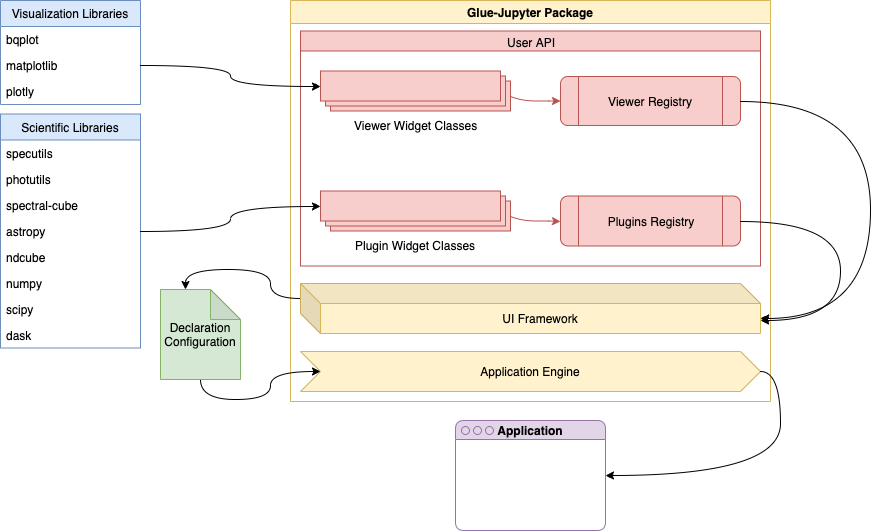
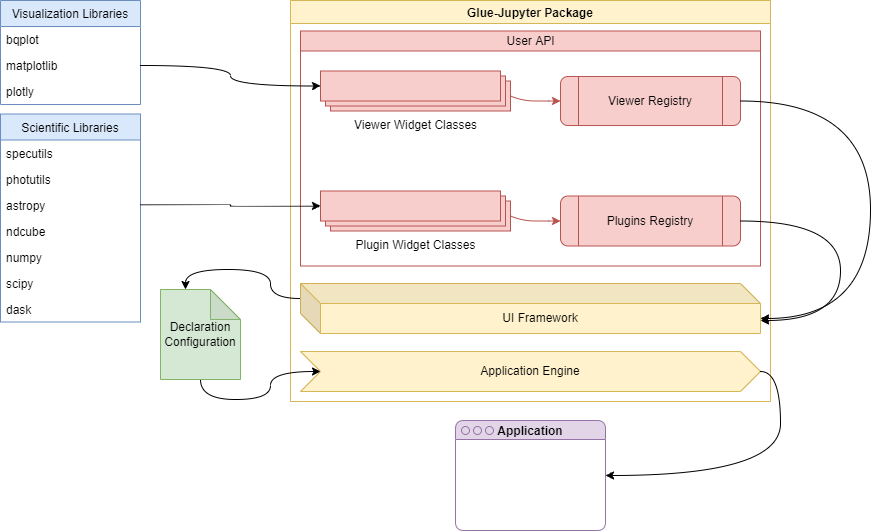
WIP: Remove dep on spectral-cube and parse ASDF/GWCS for JWST s3d cube.

diff --git a/jdaviz/configs/default/plugins/collapse/collapse.py b/jdaviz/configs/default/plugins/collapse/collapse.py
@@ -3,9 +3,9 @@ from glue.core.message import (DataCollectionAddMessage,
                                DataCollectionDeleteMessage)
 from glue.core import Data
 from glue.core.link_helpers import LinkSame
-from spectral_cube import SpectralCube
 from specutils import Spectrum1D
 from specutils import SpectralRegion
+from specutils.manipulation import spectral_slab
 from traitlets import List, Unicode, Int, Any, Bool, observe
 from regions import RectanglePixelRegion
 
@@ -78,19 +78,21 @@ class Collapse(TemplateMixin):
                                     if x.label == event['new']))
 
         # Also set the spectral min and max to default to the full range
-        cube = self._selected_data.get_object(cls=SpectralCube)
+        cube = self._selected_data.get_object(cls=Spectrum1D, statistic=None)
         self.selected_subset = "None"
         self.spectral_min = cube.spectral_axis[0].value
         self.spectral_max = cube.spectral_axis[-1].value
         self.spectral_unit = str(cube.spectral_axis.unit)
 
-        self.axes = list(range(len(self._selected_data.shape)))
+        # FIXME: Re-enable spatial-spectral collapse
+        #self.axes = list(range(len(self._selected_data.shape)))
+        self.axes = [0]
 
     @observe("selected_subset")
     def _on_subset_selected(self, event):
         # If "None" selected, reset based on bounds of selected data
         if self.selected_subset == "None":
-            cube = self._selected_data.get_object(cls=Spectrum1D)
+            cube = self._selected_data.get_object(cls=Spectrum1D, statistic=None)
             self.spectral_min = cube.spectral_axis[0].value
             self.spectral_max = cube.spectral_axis[-1].value
         else:
@@ -115,7 +117,7 @@ class Collapse(TemplateMixin):
 
     def vue_collapse(self, *args, **kwargs):
         try:
-            spec = self._selected_data.get_object(cls=SpectralCube)
+            spec = self._selected_data.get_object(cls=Spectrum1D, statistic=None)
         except AttributeError:
             snackbar_message = SnackbarMessage(
                 "Unable to perform collapse over selected data.",
@@ -130,35 +132,44 @@ class Collapse(TemplateMixin):
         if self.selected_axis == 0:
             spec_min = float(self.spectral_min) * u.Unit(self.spectral_unit)
             spec_max = float(self.spectral_max) * u.Unit(self.spectral_unit)
-            spec = spec.spectral_slab(spec_min, spec_max)
+            spec = spectral_slab(spec, spec_min, spec_max)
 
-        collapsed_spec = getattr(spec, self.selected_func.lower())(
-            axis=self.selected_axis)
+        # FIXME: Does not work.
+        # collapsed_spec = spec.collapse(self.selected_func.lower(), axis=self.selected_axis)
+        # data = Data(coords=collapsed_spec.wcs)
+        # data['flux'] = collapsed_spec.filled_data[...]
+        # data.get_component('flux').units = str(collapsed_spec.unit)
+        # data.meta.update(collapsed_spec.meta)
 
-        data = Data(coords=collapsed_spec.wcs)
-        data['flux'] = collapsed_spec.filled_data[...]
+        # FIXME: Spatial-spatial image only.
+        collapsed_spec = spec.collapse(self.selected_func.lower(), axis=-1)  # Quantity
+        data = Data()
+        data['flux'] = collapsed_spec.value
         data.get_component('flux').units = str(collapsed_spec.unit)
-        data.meta.update(collapsed_spec.meta)
 
         self._label_counter += 1
         label = f"Collapsed {self._label_counter} {self._selected_data.label}"
 
         self.data_collection[label] = data
 
+        # FIXME: Does not work.
         # Link the new dataset pixel-wise to the original dataset. In general
         # direct pixel to pixel links are the most efficient and should be
         # used in cases like this where we know there is a 1-to-1 mapping of
         # pixel coordinates. Here which axes are linked to which depends on
         # the selected axis.
-        (i1, i2), (i1c, i2c) = AXES_MAPPING[self.selected_axis]
+        # (i1, i2), (i1c, i2c) = AXES_MAPPING[self.selected_axis]
+
+        # FIXME: Spatial-spatial image only.
+        (i1, i2), (i1c, i2c) = AXES_MAPPING[-1]
 
         pix_id_1 = self._selected_data.pixel_component_ids[i1]
         pix_id_1c = self.data_collection[label].pixel_component_ids[i1c]
         pix_id_2 = self._selected_data.pixel_component_ids[i2]
         pix_id_2c = self.data_collection[label].pixel_component_ids[i2c]
 
-        self.data_collection.add_link(LinkSame(pix_id_1, pix_id_1c))
-        self.data_collection.add_link(LinkSame(pix_id_2, pix_id_2c))
+        self.data_collection.add_link([LinkSame(pix_id_1, pix_id_1c),
+                                       LinkSame(pix_id_2, pix_id_2c)])
 
         snackbar_message = SnackbarMessage(
             f"Data set '{self._selected_data.label}' collapsed successfully.",
@@ -171,5 +182,5 @@ class Collapse(TemplateMixin):
             self.app.add_data_to_viewer(self.viewer_to_id.get(self.selected_viewer),
                                         label, clear_other_data=True)
 
-        if self.selected_axis != 0 and self.add_replace_results:
+        elif self.selected_axis != 0 and self.add_replace_results:
             self.app.add_data_to_viewer('spectrum-viewer', label)

diff --git a/jdaviz/configs/cubeviz/plugins/parsers.py b/jdaviz/configs/cubeviz/plugins/parsers.py
@@ -54,8 +54,7 @@ def parse_data(app, file_obj, data_type=None, data_label=None):
             filetype = prihdr.get('FILETYPE', '').lower()
             if telescop == 'jwst' and filetype == '3d ifu cube':
                 # TODO: What about ERR, DQ, and WMAP?
-                data_label = f'{file_name}[SCI]'
-                _parse_jwst_s3d(app, hdulist, data_label)
+                _parse_jwst_s3d(app, hdulist, file_name)
             else:
                 _parse_hdu(app, hdulist, file_name=data_label or file_name)
 
@@ -128,20 +127,14 @@ def _parse_hdu(app, hdulist, file_name=None):
 
 
 def _parse_jwst_s3d(app, hdulist, data_label):
-    from specutils import Spectrum1D
+    from jdaviz.configs.imviz.plugins.parsers import _jwst2data
 
-    unit = u.Unit(hdulist[1].header.get('BUNIT', 'count'))
-    flux = hdulist[1].data << unit
-    wcs = WCS(hdulist[1].header, hdulist)
-    data = Spectrum1D(flux, wcs=wcs)
-
-    # NOTE: Tried to only pass in sliced WCS but got error in Glue.
-    # sliced_wcs = wcs[:, 0, 0]  # Only want wavelengths
-    # data = Spectrum1D(flux, wcs=sliced_wcs)
-
+    data, data_label = _jwst2data(hdulist, 'data', data_label)
     app.add_data(data, data_label)
     app.add_data_to_viewer('flux-viewer', data_label)
-    app.add_data_to_viewer('spectrum-viewer', data_label)
+    # FIXME: Does not work with GWCS.
+    # https://github.com/glue-viz/glue-astronomy/issues/59
+    # app.add_data_to_viewer('spectrum-viewer', data_label)
 
 
 def _parse_spectrum1d_3d(app, file_obj):

diff --git a/jdaviz/configs/default/plugins/model_fitting/model_fitting.py b/jdaviz/configs/default/plugins/model_fitting/model_fitting.py
@@ -259,7 +259,7 @@ class ModelFitting(TemplateMixin):
         """
         selected_spec = self.app.get_data_from_viewer("spectrum-viewer",
                                                       data_label=event)
-        # Replace NaNs from collapsed SpectralCube in Cubeviz
+        # Replace NaNs from collapsed Spectrum1D in Cubeviz
         # (won't affect calculations because these locations are masked)
         selected_spec.flux[np.isnan(selected_spec.flux)] = 0.0
 

diff --git a/docs/conf.py b/docs/conf.py
@@ -245,4 +245,3 @@ intersphinx_mapping['glue_jupyter'] = ('https://glue-jupyter.readthedocs.io/en/s
 intersphinx_mapping['regions'] = ('https://astropy-regions.readthedocs.io/en/stable/', None)
 intersphinx_mapping['skimage'] = ('https://scikit-image.org/docs/stable/', None)
 intersphinx_mapping['specutils'] = ('https://specutils.readthedocs.io/en/stable/', None)
-intersphinx_mapping['spectral_cube'] = ('https://spectral-cube.readthedocs.io/en/stable/', None)

diff --git a/jdaviz/configs/cubeviz/plugins/tests/test_parsers.py b/jdaviz/configs/cubeviz/plugins/tests/test_parsers.py
@@ -25,7 +25,7 @@ def image_hdu_obj():
         'CTYPE1': 'RA---TAN', 'CTYPE2': 'DEC--TAN', 'CTYPE3': 'WAVE-LOG',
         'CRVAL1': 205.4384, 'CRVAL2': 27.004754, 'CRVAL3': 3.62159598486E-07,
         'LONPOLE': 180.0, 'LATPOLE': 27.004754, 'MJDREFI': 0.0,
-        'MJDREFF': 0.0, 'DATE-OBS': '2014-03-30', 'MJD-OBS': 56746.0,
+        'MJDREFF': 0.0, 'DATE-OBS': '2014-03-30',
         'RADESYS': 'FK5', 'EQUINOX': 2000.0
     })
 

diff --git a/conftest.py b/conftest.py
@@ -14,7 +14,6 @@ def pytest_configure(config):
     PYTEST_HEADER_MODULES['pyyaml'] = 'yaml'
     PYTEST_HEADER_MODULES['scikit-image'] = 'skimage'
     PYTEST_HEADER_MODULES['specutils'] = 'specutils'
-    PYTEST_HEADER_MODULES['spectral-cube'] = 'spectral_cube'
     PYTEST_HEADER_MODULES['asteval'] = 'asteval'
     PYTEST_HEADER_MODULES['click'] = 'click'
     PYTEST_HEADER_MODULES['echo'] = 'echo'

diff --git a/jdaviz/conftest.py b/jdaviz/conftest.py
@@ -97,7 +97,6 @@ def pytest_configure(config):
     PYTEST_HEADER_MODULES['pyyaml'] = 'yaml'
     PYTEST_HEADER_MODULES['scikit-image'] = 'skimage'
     PYTEST_HEADER_MODULES['specutils'] = 'specutils'
-    PYTEST_HEADER_MODULES['spectral-cube'] = 'spectral_cube'
     PYTEST_HEADER_MODULES['asteval'] = 'asteval'
     PYTEST_HEADER_MODULES['click'] = 'click'
     PYTEST_HEADER_MODULES['echo'] = 'echo'

diff --git a/docs/cubeviz/import_data.rst b/docs/cubeviz/import_data.rst
@@ -6,11 +6,9 @@ Import Data
 
 There are two primary ways in which you can load your data into the Cubeviz
 application. Cubeviz supports loading FITS files that can be parsed as 
-:class:`~spectral_cube.SpectralCube` objects, in which case the application will
+:class:`~specutils.Spectrum1D` objects, in which case the application will
 attempt to automatically parse the data into the viewers as described in 
-:ref:`cubeviz-display-cubes`. Cubeviz also supports loading FITS files that can
-be parsed as :class:`~specutils.Spectrum1D`, which will be loaded into the 
-1D spectrum viewer.
+:ref:`cubeviz-display-cubes`, including the 1D spectrum viewer.
 
 Importing data through the GUI
 ------------------------------
@@ -19,8 +17,7 @@ The first way you can load your data into the Cubeviz application is
 by clicking the :guilabel:`Import` button at the top left of the application's 
 user interface. This opens a dialogue where you can navigate your local
 file system (single click to enter a folder) and select the path of a file 
-that can be parsed as a :class:`~spectral_cube.SpectralCube`
-or :class:`~specutils.Spectrum1D`:
+that can be parsed as a :class:`~specutils.Spectrum1D`:
 
 .. image:: img/cubeviz_import_data.png
 
@@ -39,7 +36,7 @@ notebook, you have access to the Cubeviz helper class API. Using this API,
 you can load data into the application through code using the
 :meth:`~jdaviz.core.helpers.ConfigHelper.load_data`
 method, which takes as input either the name of a local file or a 
-:class:`~spectral_cube.SpectralCube` or :class:`~specutils.Spectrum1D` object.
+:class:`~specutils.Spectrum1D` object.
 
     >>> from jdaviz import Cubeviz
     >>> cubeviz = Cubeviz()

diff --git a/docs/cubeviz/plugins.rst b/docs/cubeviz/plugins.rst
@@ -2,8 +2,8 @@
 Data Analysis Plugins
 *********************
 
-The Cubeviz data analysis plugins include operations on both
-Spectrum1D one dimensional datasets and :class:`~spectral_cube.SpectralCube` objects.
+The Cubeviz data analysis plugins include operations on
+`~specutils.Spectrum1D` one dimensional datasets.
 Plugins that are specific to 1D spectra are described in
 more detail under :ref:`Specviz: Data Analysis Plugins <specviz-plugins>`.  All plugins
 are accessed via the :guilabel:`plugin` icon in the upper right corner

diff --git a/docs/dev/infrastructure.rst b/docs/dev/infrastructure.rst
@@ -189,7 +189,6 @@ Some common libraries include (this list is not exhaustive):
 
 * astropy_ (general astronomy-related functionality)
 * `specutils <https://specutils.readthedocs.io>`_ (spectral analysis)
-* `spectral-cube <https://spectral-cube.readthedocs.io>`_ (spectral cube analysis)
 * `photutils <https://photutils.readthedocs.io>`_ (imaging photometry)
 
 Note that those libraries themselves depend on the wider scientific Python ecosystem,

diff --git a/.github/ISSUE_TEMPLATE/bug-report--cubeviz.md b/.github/ISSUE_TEMPLATE/bug-report--cubeviz.md
@@ -47,7 +47,6 @@ import sys; print("Python", sys.version)
 import numpy; print("Numpy", numpy.__version__)
 import astropy; print("astropy", astropy.__version__)
 import specutils; print("specutils", specutils.__version__)
-import spectral_cube; print("spectral-cube", spectral_cube.__version__)
 import yaml; print("pyyaml", yaml.__version__)
 import click; print("click", click.__version__)
 import asteval; print("asteval", asteval.__version__)

diff --git a/.github/ISSUE_TEMPLATE/bug-report--imviz.md b/.github/ISSUE_TEMPLATE/bug-report--imviz.md
@@ -47,7 +47,6 @@ import sys; print("Python", sys.version)
 import numpy; print("Numpy", numpy.__version__)
 import astropy; print("astropy", astropy.__version__)
 import specutils; print("specutils", specutils.__version__)
-import spectral_cube; print("spectral-cube", spectral_cube.__version__)
 import yaml; print("pyyaml", yaml.__version__)
 import click; print("click", click.__version__)
 import asteval; print("asteval", asteval.__version__)
